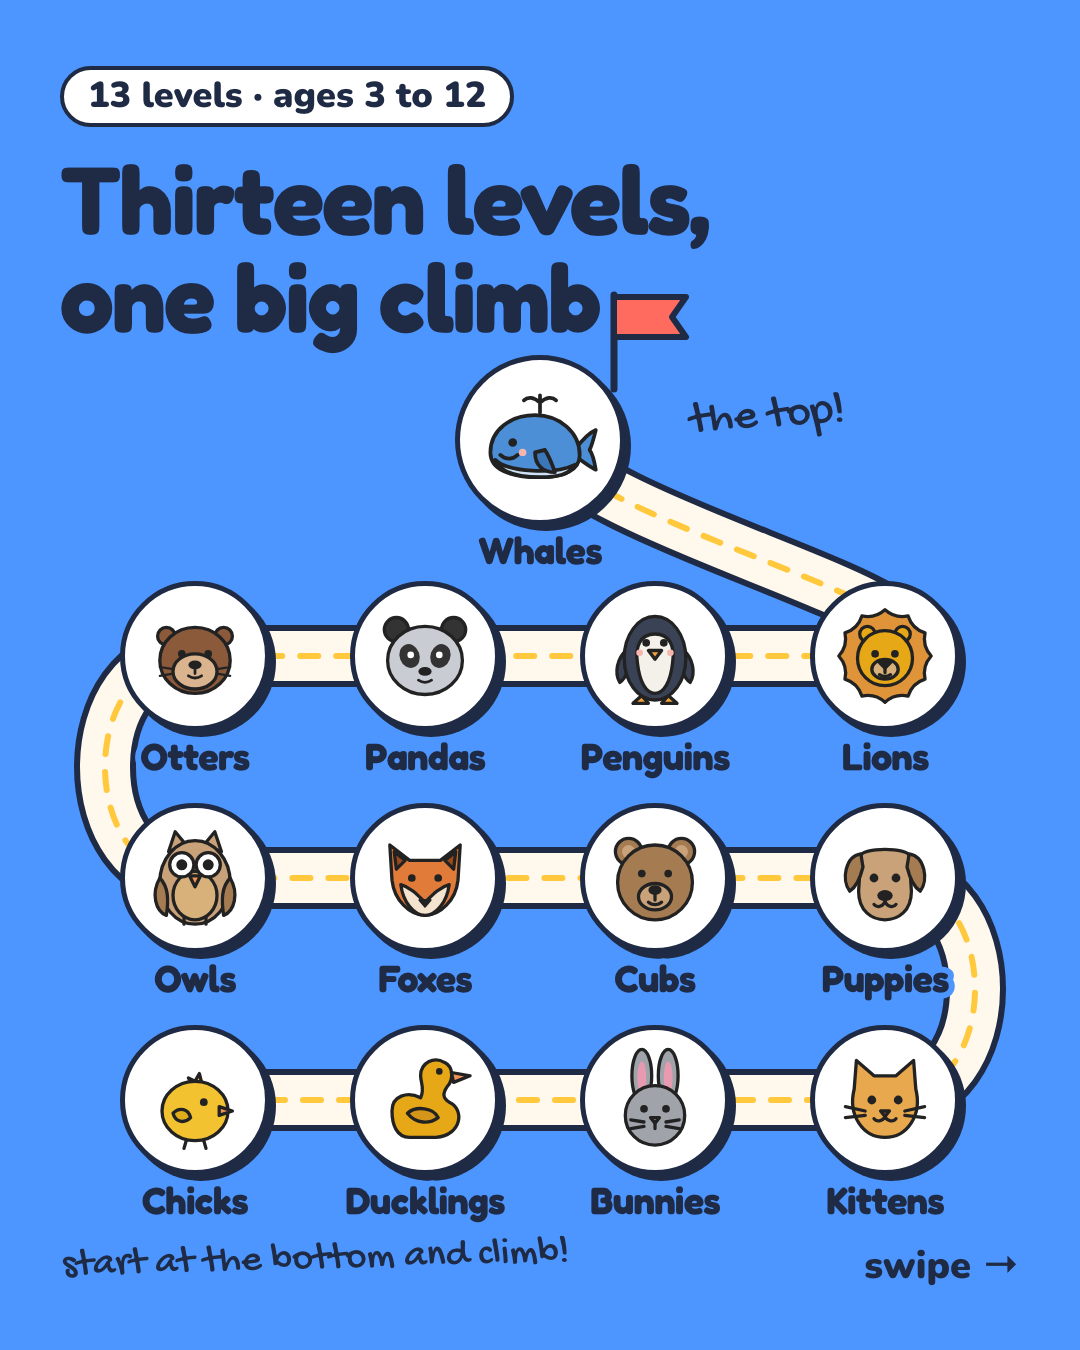
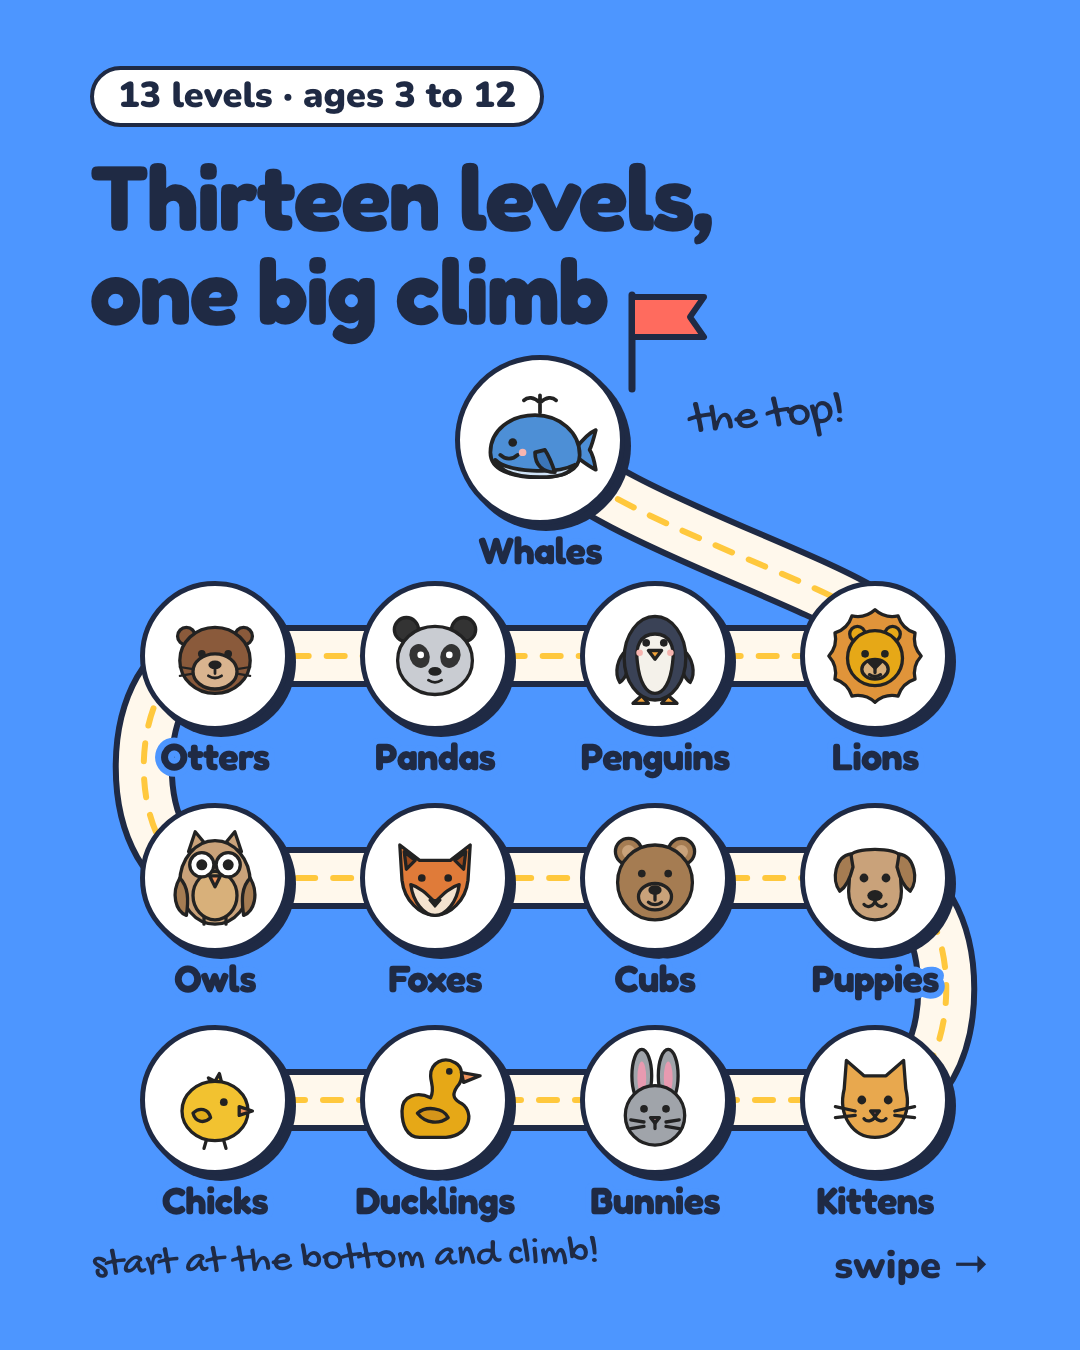
marketing/instagram: 90px side margins so the 3:4 profile grid crop never clips (posts 02 slide 1, 03-06)
Claude-Session: https://claude.ai/code/session_01G3RaoCsPFUWHqcF2R7D6Dn

diff --git a/scripts/marketing/instagram_launch.py b/scripts/marketing/instagram_launch.py
@@ -196,7 +196,7 @@ def post_hello() -> str:
 
 def level_road() -> str:
     """Slide 1 of 'Meet the levels': all 13 mascots on a winding road up a hill."""
-    xs = [195, 425, 655, 885]
+    xs = [215, 435, 655, 875]
     rows = [1100, 878, 656]
     pts: list[tuple[int, int]] = []
     for r, y in enumerate(rows):
@@ -209,7 +209,7 @@ def level_road() -> str:
         if y0 == y1:
             d += f" L{x1} {y1}"
         else:  # a rounded switchback on the outside of the row
-            bulge = 120 if x0 > 540 else -120
+            bulge = 95 if x0 > 540 else -95
             d += f" C{x0 + bulge} {y0} {x1 + bulge} {y1} {x1} {y1}" if x0 == x1 else f" C{x0 + bulge} {y0 - 40} {x1 + 60} {y1 + 90} {x1} {y1}"
     road = (f'<svg class="abs" style="left:0;top:0" width="{W}" height="{H}" viewBox="0 0 {W} {H}">'
             f'<path d="{d}" fill="none" stroke="{INK}" stroke-width="62" stroke-linecap="round" stroke-linejoin="round"/>'
@@ -222,16 +222,16 @@ def level_road() -> str:
                   f'background:#fff;box-shadow:6px 6px 0 {INK}"><img src="{lv["mascot"]}" alt=""></div>'
                   f'<div class="abs fred" style="left:{x - 110}px;width:220px;top:{y + size // 2 + 6}px;text-align:center;'
                   f'font-size:38px;color:{INK};-webkit-text-stroke:12px {SKY};paint-order:stroke fill">{lv["name"]}</div>')
-    flag = (f'<svg class="abs" style="left:600px;top:285px" width="110" height="110" viewBox="0 0 110 110">'
+    flag = (f'<svg class="abs" style="left:618px;top:285px" width="110" height="110" viewBox="0 0 110 110">'
             f'<path d="M14 104 V10" stroke="{INK}" stroke-width="7" stroke-linecap="round"/>'
             f'<path d="M14 12 H86 L72 32 L86 52 H14 Z" fill="{CORAL}" stroke="{INK}" stroke-width="6" stroke-linejoin="round"/></svg>')
     body = f"""
-<div class="abs" style="left:60px;top:66px"><span class="chip">13 levels &middot; ages 3 to 12</span></div>
-<div class="abs fred" style="left:60px;top:150px;font-size:96px;width:760px">Thirteen levels,<br>one big climb</div>
+<div class="abs" style="left:90px;top:66px"><span class="chip">13 levels &middot; ages 3 to 12</span></div>
+<div class="abs fred" style="left:90px;top:150px;font-size:92px;width:760px">Thirteen levels,<br>one big climb</div>
 <div class="abs hand" style="left:690px;top:390px;font-size:46px;transform:rotate(-4deg)">the top!</div>
 {road}{flag}{stops}
-<div class="abs hand" style="left:62px;top:1236px;font-size:40px;transform:rotate(-1.5deg)">start at the bottom and climb!</div>
-<div class="abs" style="right:60px;top:1240px;font-size:38px;font-weight:900">swipe &rarr;</div>
+<div class="abs hand" style="left:92px;top:1236px;font-size:40px;transform:rotate(-1.5deg)">start at the bottom and climb!</div>
+<div class="abs" style="right:90px;top:1240px;font-size:38px;font-weight:900">swipe &rarr;</div>
 """
     return html(body, W, H, SKY)
 
@@ -293,11 +293,11 @@ def post_real_page() -> str:
     body = f"""
 <div class="blob" style="left:-160px;top:420px;width:520px;height:520px;background:{SUN};opacity:.40"></div>
 <div class="blob" style="right:-120px;top:-120px;width:380px;height:380px;background:{TEAL};opacity:.18"></div>
-<div class="abs fred" style="left:60px;top:64px;font-size:92px">A real page</div>
-<div class="abs hand" style="left:66px;top:160px;font-size:50px;color:{CORAL};transform:rotate(-2deg);transform-origin:left">
+<div class="abs fred" style="left:90px;top:64px;font-size:92px">A real page</div>
+<div class="abs hand" style="left:96px;top:160px;font-size:50px;color:{CORAL};transform:rotate(-2deg);transform-origin:left">
   from Ducklings Reading</div>
 {sheet(d3, 200, 244, 720, 3, 1)}
-<div class="abs" style="left:620px;top:120px;width:400px;transform:rotate(16deg);z-index:2">{PENCIL}</div>
+<div class="abs" style="left:610px;top:112px;width:360px;transform:rotate(16deg);z-index:2">{PENCIL}</div>
 <div class="abs sticker" style="left:560px;top:1118px;z-index:3;background:{CORAL};padding:18px 34px 22px;
      transform:rotate(-4deg);border-radius:36px">
   <div class="fred" style="font-size:52px">Try it free</div>
@@ -315,11 +315,11 @@ def post_how() -> str:
     cards = ""
     y = 296
     for i, (color, ic, title, text) in enumerate(steps):
-        x = 86 if i != 1 else 126
+        x = 116 if i != 1 else 150
         cards += f"""
-<div class="abs sticker" style="left:{x}px;top:{y}px;width:854px;height:262px;background:#fff;display:flex;align-items:center;gap:34px;padding:0 40px">
+<div class="abs sticker" style="left:{x}px;top:{y}px;width:814px;height:262px;background:#fff;display:flex;align-items:center;gap:34px;padding:0 40px">
   <div class="disc" style="width:160px;height:160px;flex:none;background:{color}">{icon(ic, 92)}</div>
-  <div><div class="fred" style="font-size:62px">{title}</div>
+  <div><div class="fred" style="font-size:58px">{title}</div>
        <div style="font-size:37px;line-height:1.3;margin-top:10px;font-weight:800;opacity:.85">{text}</div></div>
   <div class="abs disc" style="left:-26px;top:-26px;width:74px;height:74px;background:{INK};color:#fff;border-color:{INK};font-weight:900;font-size:40px">{i + 1}</div>
 </div>"""
@@ -327,10 +327,10 @@ def post_how() -> str:
     body = f"""
 <div class="blob" style="right:-130px;top:-150px;width:440px;height:440px;background:#fff;opacity:.35"></div>
 <div class="blob" style="left:-110px;bottom:-140px;width:360px;height:360px;background:#fff;opacity:.30"></div>
-<div class="abs fred" style="left:60px;top:70px;font-size:110px">How it works</div>
-<div class="abs hand" style="left:64px;top:194px;font-size:50px;transform:rotate(-1.5deg);transform-origin:left">three little steps</div>
+<div class="abs fred" style="left:90px;top:70px;font-size:110px">How it works</div>
+<div class="abs hand" style="left:94px;top:194px;font-size:50px;transform:rotate(-1.5deg);transform-origin:left">three little steps</div>
 {cards}
-<div class="abs" style="left:60px;right:60px;top:1222px;display:flex;align-items:center;justify-content:space-between">
+<div class="abs" style="left:90px;right:90px;top:1196px;display:flex;align-items:center;justify-content:space-between">
   {logo(380)}<span style="font-size:38px;font-weight:900">paperlessons.com</span></div>
 """
     return html(body, W, H, SUN)
@@ -343,25 +343,25 @@ def post_two_grades() -> str:
     for i, (slug, age) in enumerate(rows):
         lv = BY_SLUG[slug]
         assert lv["age"] == age
-        x = 60 + i * 40
+        x = 90 + i * 30
         hi = slug == "foxes"
         out += f"""
-<div class="abs sticker" style="left:{x}px;top:{y}px;width:820px;height:146px;background:{SUN if hi else '#fff'};
+<div class="abs sticker" style="left:{x}px;top:{y}px;width:800px;height:146px;background:{SUN if hi else '#fff'};
      display:flex;align-items:center;gap:26px;padding:0 30px;border-radius:36px">
   <div class="disc" style="width:112px;height:112px;flex:none;background:#fff"><img src="{lv['mascot']}" alt=""></div>
-  <span class="fred" style="font-size:64px;width:250px">Age {age}</span>
-  <svg width="70" height="40" viewBox="0 0 70 40"><path d="M4 20 H60 M44 6 L62 20 L44 34" fill="none" stroke="{INK}" stroke-width="7" stroke-linecap="round" stroke-linejoin="round"/></svg>
+  <span class="fred" style="font-size:62px;width:206px;white-space:nowrap">Age {age}</span>
+  <svg width="58" height="34" viewBox="0 0 70 40"><path d="M4 20 H60 M44 6 L62 20 L44 34" fill="none" stroke="{INK}" stroke-width="7" stroke-linecap="round" stroke-linejoin="round"/></svg>
   <span class="chip" style="font-size:40px;background:{lv['color'] if not hi else '#fff'}">{grade_label(lv['grade'])}</span>
 </div>"""
         y += 146 + 28
     body = f"""
 <div class="blob" style="right:-150px;top:-120px;width:460px;height:460px;background:{GRAPE};opacity:.16"></div>
 <div class="blob" style="left:-140px;top:1000px;width:360px;height:360px;background:{LEAF};opacity:.20"></div>
-<div class="abs fred" style="left:60px;top:70px;font-size:124px">Age 6?<br><span style="color:{CORAL}">Grade 3</span> work.</div>
-<div class="abs" style="left:60px;top:360px;width:900px;font-size:42px;line-height:1.3;font-weight:800">
+<div class="abs fred" style="left:90px;top:70px;font-size:124px">Age 6?<br><span style="color:{CORAL}">Grade 3</span> work.</div>
+<div class="abs" style="left:90px;top:360px;width:900px;font-size:42px;line-height:1.3;font-weight:800">
   Every level runs about two grades ahead of school, one small step at a time.</div>
 {out}
-<div class="abs hand" style="left:60px;right:60px;top:1228px;font-size:42px;text-align:center;white-space:nowrap;transform:rotate(-1deg)">
+<div class="abs hand" style="left:90px;right:90px;top:1228px;font-size:42px;text-align:center;white-space:nowrap;transform:rotate(-1deg)">
   Start where it feels easy, climb at your own pace.</div>
 """
     return html(body, W, H, CREAM)
@@ -373,21 +373,21 @@ def post_previews() -> str:
     zs = [1, 3, 4, 2]
     fan = ""
     rots = [-12, -4, 4, 12]
-    xs = [56, 206, 462, 612]
-    ys = [560, 510, 510, 560]
+    xs = [140, 265, 490, 597]
+    ys = [610, 560, 560, 610]
     for src, r, x, y, z in zip(pages, rots, xs, ys, zs):
-        fan += sheet(src, x, y, 392, r, z)
+        fan += sheet(src, x, y, 340, r, z)
     body = f"""
 <div class="blob" style="left:-150px;top:-150px;width:460px;height:460px;background:#fff;opacity:.18"></div>
 <div class="blob" style="right:-140px;top:280px;width:320px;height:320px;background:{SUN};opacity:.55"></div>
-<div class="abs fred" style="left:60px;right:60px;top:66px;text-align:center;font-size:118px">Try it free</div>
+<div class="abs fred" style="left:90px;right:90px;top:66px;text-align:center;font-size:118px">Try it free</div>
 <div class="abs" style="left:0;right:0;top:214px;display:flex;justify-content:center">
   <span class="chip" style="font-size:42px;padding:10px 34px 12px;box-shadow:8px 8px 0 {INK}">Free previews: Chicks &amp; Ducklings</span></div>
-<div class="abs hand" style="left:60px;right:60px;top:318px;text-align:center;font-size:48px;color:#fff;transform:rotate(-1.5deg)">
+<div class="abs hand" style="left:90px;right:90px;top:318px;text-align:center;font-size:46px;color:#fff;transform:rotate(-1.5deg)">
   print a few pages and see how they feel</div>
 {fan}
-<img class="abs" src="{BY_SLUG['chicks']['mascot']}" style="left:46px;top:470px;width:150px;transform:rotate(-10deg);z-index:9" alt="">
-<img class="abs" src="{BY_SLUG['ducklings']['mascot']}" style="right:40px;top:470px;width:160px;transform:rotate(8deg);z-index:9" alt="">
+<img class="abs" src="{BY_SLUG['chicks']['mascot']}" style="left:100px;top:470px;width:140px;transform:rotate(-10deg);z-index:9" alt="">
+<img class="abs" src="{BY_SLUG['ducklings']['mascot']}" style="right:104px;top:470px;width:150px;transform:rotate(8deg);z-index:9" alt="">
 <div class="abs" style="left:0;right:0;top:1158px;display:flex;justify-content:center;z-index:10">
   <span class="sticker" style="background:#fff;padding:14px 48px 18px;border-radius:999px;font-family:Fredoka;font-weight:700;font-size:64px">paperlessons.com</span></div>
 """

diff --git a/marketing/instagram/README.md b/marketing/instagram/README.md
@@ -15,7 +15,7 @@ templates/   reusable layouts
 | Format | Size | Notes |
 |---|---|---|
 | Profile picture | 1080×1080 | shown as a small circle: keep everything inside the middle ~80% |
-| Feed post | 1080×1350 (4:5) | the tallest Instagram allows; also fine: 1080×1080 |
+| Feed post | 1080×1350 (4:5) | the tallest Instagram allows; also fine: 1080×1080. Profile grid crops to 3:4 (~35px off each side): keep 90px side margins and 60px top/bottom for all text and key art |
 | Story / reel | 1080×1920 (9:16) | keep text out of the top 250px and bottom 300px (app UI covers them) |
 
 ## Brand (same as the site and the PDFs)
